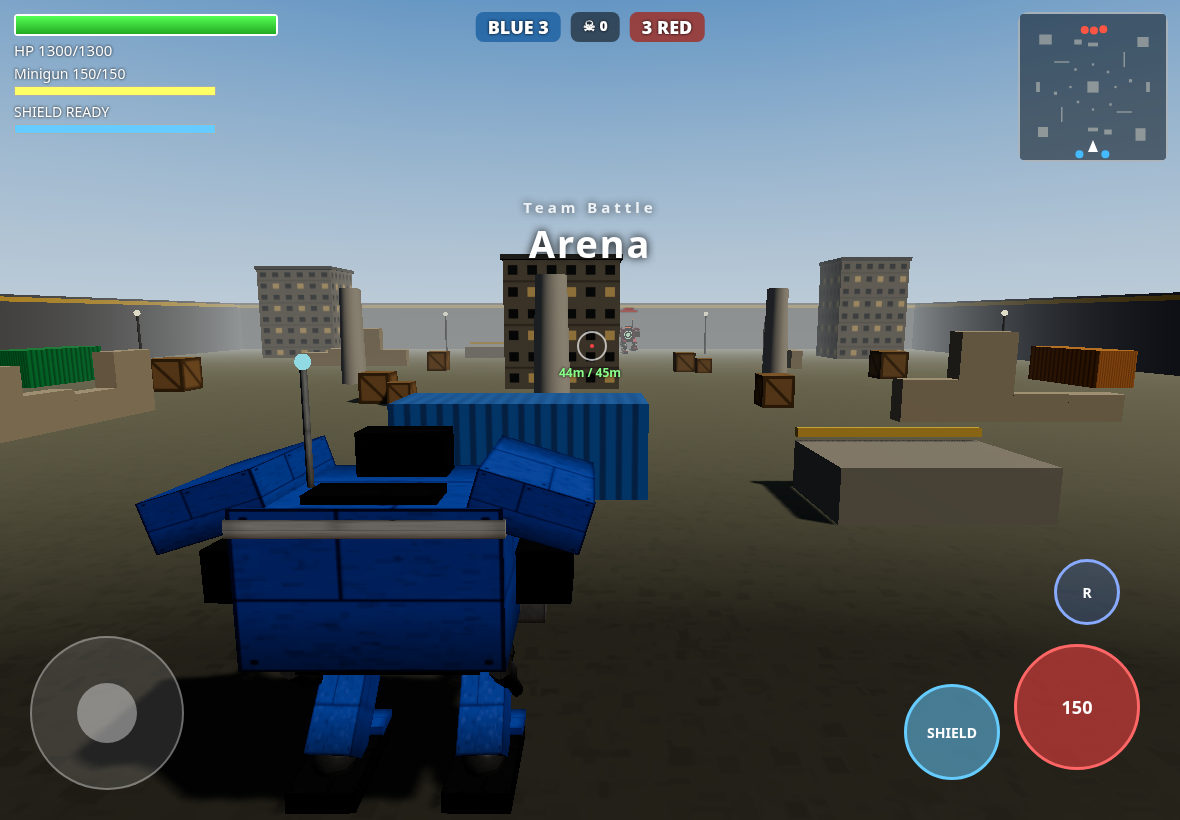
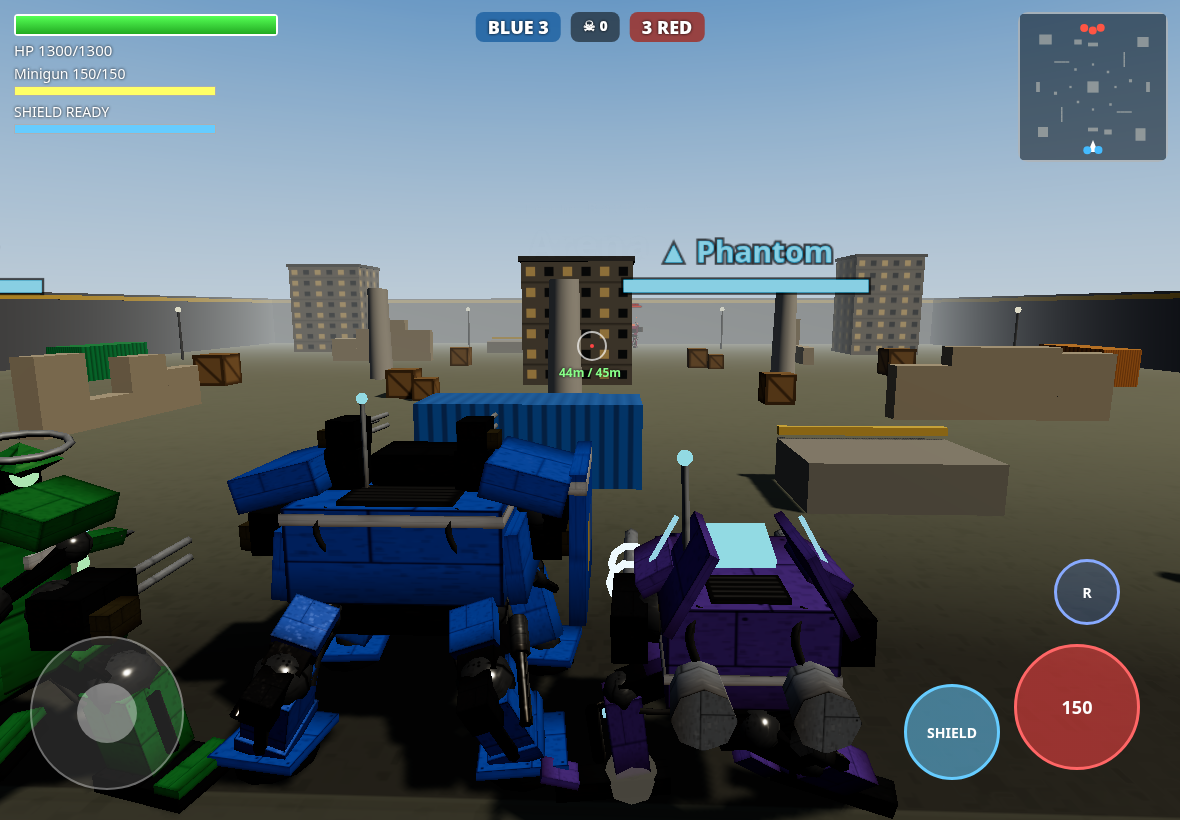
v11: structurally distinct mechs

diff --git a/game.js b/game.js
@@ -250,68 +250,118 @@ const TM={p:{stripe:M(0xf0f0f0),visor:new THREE.MeshBasicMaterial({color:0x40e0f
 const shieldMat=new THREE.MeshBasicMaterial({color:0x60d8ff,transparent:true,opacity:.35,depthWrite:false,side:THREE.DoubleSide});
 const jetMat=new THREE.MeshBasicMaterial({color:0xffa030}),coreMat=new THREE.MeshBasicMaterial({color:0x60ff90}),coilMat=new THREE.MeshBasicMaterial({color:0x50c0ff});
 const thrG=new THREE.CylinderGeometry(.3,.38,1.2,8),coreG=new THREE.SphereGeometry(.32,8,6),ringG=new THREE.TorusGeometry(.6,.07,4,12),coilG=new THREE.TorusGeometry(.3,.06,4,10),shieldG=new THREE.CylinderGeometry(3,3,4,10,1,true,-0.75,1.5);
-// ---------- mech builder: team 'b'|'r', type key, weapon key ----------
+// ---------- mech builder v11: per-frame structure (legs/arms/hardpoints/detail). team 'b'|'r', type key, weapon key ----------
 const TMK={b:'p',r:'e'};
-function mech(team,type,wpn){const T=CFG.mechs[type];const col=team==='b'?T.color:T.enemyColor;const g=new THREE.Group(),m=M(col,{metal:.45,rough:.55}),dk=M(0x2a2a2c,{metal:.7,rough:.5}),tm=TM[TMK[team]];
- const lower=new THREE.Group();g.add(lower);const legs=[],jm=M(0x8a8d90,{metal:.9,rough:.3}),rod=M(0xd0d4d8,{metal:1,rough:.15});
- for(const s of[-1,1]){const hipJ=new THREE.Group();hipJ.rotation.order='ZXY';hipJ.position.set(s*0.85,LEG.hipY,0);hipJ.add(new THREE.Mesh(jointG,jm));
-  const th=new THREE.Mesh(boxG,dk);th.scale.set(.45,LEG.L1,.55);th.position.y=-LEG.L1/2;hipJ.add(th);
-  const thA=new THREE.Mesh(boxG,m);thA.scale.set(.55,LEG.L1*.6,.2);thA.position.set(0,-LEG.L1*.4,.33);hipJ.add(thA);
-  // hydraulic piston: cylinder on thigh, rod scaled with knee angle
-  const cyl=new THREE.Mesh(pistonG,jm);cyl.scale.set(1.6,.55,1.6);cyl.position.set(s*.32,-LEG.L1*.3,-.38);hipJ.add(cyl);
-  const prod=new THREE.Mesh(pistonG,rod);prod.position.set(s*.32,-LEG.L1*.75,-.38);hipJ.add(prod);
-  const knee=new THREE.Group();knee.position.y=-LEG.L1;knee.add(new THREE.Mesh(jointG,jm));hipJ.add(knee);
-  const sh=new THREE.Mesh(boxG,m);sh.scale.set(.55,LEG.L2,.65);sh.position.y=-LEG.L2/2;knee.add(sh);
-  const pis2=new THREE.Mesh(pistonG,rod);pis2.position.set(0,-LEG.L2/2,.4);knee.add(pis2);
-  const ank=new THREE.Group();ank.rotation.order='ZXY';ank.position.y=-LEG.L2;const aj=new THREE.Mesh(jointG,jm);aj.scale.setScalar(.8);ank.add(aj);knee.add(ank);
-  const ft=new THREE.Mesh(boxG,dk);ft.scale.set(.8,LEG.foot,1.4);ft.position.set(0,-LEG.foot/2-.1,.2);ank.add(ft);
-  const toe=new THREE.Mesh(boxG,m);toe.scale.set(.82,.12,.4);toe.position.set(0,-.05,.75);ank.add(toe);
-  lower.add(hipJ);legs.push({hip:hipJ,knee,ank,prod,pis2,thA,thV:0,thR:0,s,foot:new THREE.Vector3(),from:new THREE.Vector3(),to:new THREE.Vector3(),sw:-1,dur:.3});}
- const hip=new THREE.Mesh(boxG,dk);hip.scale.set(2,.5,1);hip.position.y=LEG.hipY;lower.add(hip);
- const top=new THREE.Group();top.position.y=2.6;g.add(top);
- const add=(par,geo,mt,sx,sy,sz,x,y,z)=>{const o=new THREE.Mesh(geo,mt);o.scale.set(sx,sy,sz);o.position.set(x,y,z);par.add(o);return o;};
- const tw={guardian:[2.7,1.7,1.9],strider:[1.9,1.3,1.5],mender:[2.2,1.5,1.6],phantom:[2.0,1.15,1.8]}[type];
- add(top,boxG,m,tw[0],tw[1],tw[2],0,.8,0);
- add(top,boxG,dk,tw[0]*.7,.9,.25,0,.75,tw[2]/2+.05);
- add(top,boxG,tm.stripe,tw[0]+.05,.18,tw[2]+.05,0,.8+tw[1]/2-.2,0);
- add(top,boxG,dk,1.05,.55,.45,0,.8+tw[1]/2+.25,.55);add(top,boxG,tm.visor,.85,.18,.05,0,.8+tw[1]/2+.3,.79);
- // emissive running lights + vents
- const lm=team==='b'?LIGHT_B:LIGHT_R;for(const s of[-1,1])add(top,boxG,lm,.12,.12,.06,s*tw[0]*.36,.8+tw[1]*.25,tw[2]/2+.2);
- const vent=add(top,boxG,dk,tw[0]*.5,.15,.5,0,.8+tw[1]/2+.02,-tw[2]*.3);
- // shoulder pads on lag pivots (secondary motion)
- const pads=[];const pad=type==='guardian'?[1.2,.55,1.8]:[.8,.35,1.3];for(const s of[-1,1]){const pv=new THREE.Group();pv.position.set(s*(tw[0]/2+.1),1.45,0);top.add(pv);const sp=add(pv,boxG,m,...pad,s*.15,.15,0);sp.rotation.z=s*-.3;pads.push(pv);}
- const antP=new THREE.Group();antP.position.set(.7,1.75,-.5);top.add(antP);add(antP,antG,MS.metal,1,1,1,0,.65,0);add(antP,jointG,tm.visor,.25,.25,.25,0,1.3,0);
- let shield=null,jets=[];
- if(type==='guardian'){shield=add(top,shieldG,shieldMat,1,1,1,0,.8,0);shield.visible=false;add(top,boxG,MS.metal,.4,1.2,.4,-tw[0]/2-.1,.4,.6);}
- if(type==='strider'){for(const s of[-1,1]){add(top,thrG,MS.metal,1,1,1,s*.55,.7,-1.05);const j=add(top,flashG,jetMat,1.2,1.4,1.2,s*.55,-.3,-1.05);j.rotation.x=Math.PI;j.visible=false;jets.push(j);}}
- if(type==='phantom'){for(const s of[-1,1]){const f=add(top,boxG,m,.12,.9,1.2,s*.7,1.5,-.6);f.rotation.z=s*.5;add(top,thrG,MS.metal,.8,.8,.8,s*.6,.5,-1.0);const j=add(top,flashG,jetMat,1,1.6,1,s*.6,.5,-1.6);j.rotation.x=-Math.PI/2;j.visible=false;jets.push(j);}}
- if(type==='mender'){add(top,coreG,coreMat,1,1,1,0,.75,.95);add(top,ringG,coreMat,1,1,1,0,.75,.95);}
- const guns=[],flash=[],spinners=[],kickers=[];const mz={minigun:2.0,railgun:3.0,hornet:.9,shotgun:1.7}[wpn];
+const V3=(x,y,z)=>new THREE.Vector3(x,y,z);
+const cableG=new THREE.TubeGeometry(new THREE.CatmullRomCurve3([V3(0,0,0),V3(.12,-.3,-.12),V3(.05,-.65,-.1),V3(0,-.85,0)]),8,.045,4);
+const ventGT=tex(64,32,(g,w,h)=>{g.fillStyle='#222';g.fillRect(0,0,w,h);g.fillStyle='#555';for(let y=3;y<h;y+=6)g.fillRect(3,y,w-6,2);});
+const ventMat=new THREE.MeshStandardMaterial({map:ventGT,metalness:.7,roughness:.5});
+const cableMat=new THREE.MeshStandardMaterial({color:0x1a1a1a,roughness:.6,metalness:.2});
+const decalMats={};function decalMat(team,type){const k=team+type;if(decalMats[k])return decalMats[k];
+ const t=tex(128,64,(g,w,h)=>{g.clearRect(0,0,w,h);g.save();g.beginPath();g.rect(0,0,52,h);g.clip();for(let i=-4;i<10;i++){g.fillStyle=i%2?'#111':'#f0c020';g.beginPath();g.moveTo(i*14,0);g.lineTo(i*14+14,0);g.lineTo(i*14-18,h);g.lineTo(i*14-32,h);g.fill();}g.restore();
+  g.fillStyle=team==='b'?'#e8f4ff':'#ffe0d8';g.font='bold 40px sans-serif';g.textAlign='center';g.textBaseline='middle';g.fillText({guardian:'G-01',strider:'S-27',mender:'M-09',phantom:'P-X'}[type],90,34);});
+ return decalMats[k]=new THREE.MeshStandardMaterial({map:t,transparent:true,roughness:.6,metalness:.2,polygonOffset:true,polygonOffsetFactor:-2});}
+const planeG=new THREE.PlaneGeometry(1,1),droneG=new THREE.OctahedronGeometry(.32,0),rotorG=new THREE.TorusGeometry(.38,.04,4,12),dishG=new THREE.CylinderGeometry(.45,.1,.18,10),clawG=new THREE.ConeGeometry(.12,.55,4);
+// leg specs: x/z hip offset, hx/hz foot home offset (lower-local), l1/l2 bone lengths, rev = reverse (digitigrade) knee, grp = gait group (legs in a group step together), w = thickness
+const FRAMES={
+ guardian:{legs:[{x:-1.15,z:.95,hx:-1.75,hz:1.35,grp:0},{x:1.15,z:-.95,hx:1.75,hz:-1.35,grp:0,rev:1},{x:1.15,z:.95,hx:1.75,hz:1.35,grp:1},{x:-1.15,z:-.95,hx:-1.75,hz:-1.35,grp:1,rev:1}].map(l=>({...l,l1:1.05,l2:1.3,w:1.15})),
+  tw:[3.0,1.35,2.5],hips:[2.5,.6,2.2]},
+ strider:{legs:[-1,1].map((s,i)=>({x:s*.8,z:0,hx:s*.95,hz:.1,grp:i,l1:1.0,l2:1.55,rev:1,w:.8})),tw:[1.8,1.2,1.7],hips:[1.7,.45,.9]},
+ mender:{legs:[-1,1].map((s,i)=>({x:s*.95,z:0,hx:s*1.05,hz:.15,grp:i,l1:1.2,l2:1.2,w:1.2})),tw:[2.0,1.9,1.7],hips:[2.1,.55,1.1]},
+ phantom:{legs:[-1,1].map((s,i)=>({x:s*.7,z:0,hx:s*.8,hz:.1,grp:i,l1:1.28,l2:1.22,w:.7})),tw:[1.7,1.05,2.1],hips:[1.5,.4,.8]}};
+function mech(team,type,wpn){const T=CFG.mechs[type],F=FRAMES[type];const col=team==='b'?T.color:T.enemyColor;const hi=typeof settings==='undefined'||settings.gfx!=='low';
+ const g=new THREE.Group(),m=M(col,{metal:.45,rough:.55}),dk=M(0x2a2a2c,{metal:.7,rough:.5}),tm=TM[TMK[team]],lm=team==='b'?LIGHT_B:LIGHT_R;
+ const add=(par,geo,mt,sx,sy,sz,x,y,z,rx=0,ry=0,rz=0)=>{const o=new THREE.Mesh(geo,mt);o.scale.set(sx,sy,sz);o.position.set(x,y,z);o.rotation.set(rx,ry,rz);par.add(o);return o;};
+ const grp=(par,x,y,z)=>{const o=new THREE.Group();o.position.set(x,y,z);par.add(o);return o;};
+ const lower=new THREE.Group();g.add(lower);const legs=[],jm=M(0x8a8d90,{metal:.9,rough:.3}),rod=M(0xd0d4d8,{metal:1,rough:.15});const jets=[];
+ // ---- legs ----
+ for(const d of F.legs){const s=Math.sign(d.x),w=d.w,rv=d.rev?-1:1;const hipJ=new THREE.Group();hipJ.rotation.order='ZXY';hipJ.position.set(d.x,LEG.hipY,d.z);add(hipJ,jointG,jm,w,w,w,0,0,0);
+  add(hipJ,boxG,dk,.45*w,d.l1,.55*w,0,-d.l1/2,0);const thA=add(hipJ,boxG,m,.55*w,d.l1*.6,.2,0,-d.l1*.4,.33*rv);
+  add(hipJ,pistonG,jm,1.6,.55,1.6,s*.32*w,-d.l1*.3,-.38*rv);const prod=add(hipJ,pistonG,rod,1,1,1,s*.32*w,-d.l1*.75,-.38*rv);
+  if(hi)add(hipJ,cableG,cableMat,1,d.l1,1,-s*.3*w,-.05,-.2*rv);
+  const knee=grp(hipJ,0,-d.l1,0);add(knee,jointG,jm,w,w,w,0,0,0);
+  add(knee,boxG,m,.55*w,d.l2,.65*w,0,-d.l2/2,0);const pis2=add(knee,pistonG,rod,1,1,1,0,-d.l2/2,.4*rv);
+  if(d.rev){add(knee,boxG,dk,.35*w,.5,.5,0,.1,-.35);add(knee,boxG,m,.62*w,.25,.75*w,0,-d.l2*.8,0);}// reverse-knee spur + calf band
+  if(hi)add(knee,boxG,lm,.08,.08,.04,0,-d.l2*.25,.34*w*rv+.02*rv);
+  const ank=new THREE.Group();ank.rotation.order='ZXY';ank.position.y=-d.l2;add(ank,jointG,jm,.8*w,.8*w,.8*w,0,0,0);knee.add(ank);
+  if(type==='strider'){for(const a of[-.45,0,.45])add(ank,clawG,dk,1,1,1,Math.sin(a)*.35,-.25,.35+Math.cos(a)*.15,Math.PI/2,0,0);add(ank,clawG,dk,.8,.8,.8,0,-.25,-.45,-Math.PI/2,0,0);add(ank,boxG,m,.5,.2,.6,0,-.15,.05);
+   const j=add(knee,flashG,jetMat,.7,1,.7,0,-d.l2*.55,-.45);j.rotation.x=Math.PI;j.visible=false;jets.push(j);add(knee,thrG,MS.metal,.5,.5,.5,0,-d.l2*.4,-.45);}
+  else if(type==='guardian'){add(ank,cylG,dk,.55,.3,.55,0,-.22,0);add(ank,boxG,m,1.2,.12,1.2,0,-.05,0);}// elephant pad foot
+  else if(type==='phantom'){add(ank,boxG,dk,.35,LEG.foot,1.5,0,-LEG.foot/2-.1,.25);add(ank,boxG,m,.38,.1,.5,0,-.05,.95,-.3,0,0);}
+  else{add(ank,boxG,dk,.9,LEG.foot,1.4,0,-LEG.foot/2-.1,.2);add(ank,boxG,m,.92,.12,.4,0,-.05,.75);}
+  lower.add(hipJ);legs.push({hip:hipJ,knee,ank,prod,pis2,thA,thV:0,thR:0,s,hx:d.hx,hz:d.hz,l1:d.l1,l2:d.l2,rev:!!d.rev,grp:d.grp,foot:new THREE.Vector3(),from:new THREE.Vector3(),to:new THREE.Vector3(),sw:-1,dur:.3});}
+ const hp=F.hips;add(lower,boxG,dk,hp[0],hp[1],hp[2],0,LEG.hipY,0);if(hi)add(lower,boxG,ventMat,hp[0]*.5,.05,hp[2]*.5,0,LEG.hipY+hp[1]/2+.01,0);
+ // ---- torso ----
+ const top=new THREE.Group();top.position.y=2.6;g.add(top);const tw=F.tw,cy=.8,tY=cy+tw[1]/2;
+ const pads=[],arms=[],drones=[];let shield=null,vent,antP,coreM=null;
+ if(type==='guardian'){// heavy hull: slab torso, sloped glacis, side skirts, low turret head
+  add(top,boxG,m,tw[0],tw[1],tw[2],0,cy,0);add(top,boxG,m,tw[0]*.9,.9,.7,0,cy+.15,tw[2]/2+.2,-.6,0,0);add(top,boxG,dk,tw[0]*.7,.5,.3,0,cy-.45,tw[2]/2+.1);
+  add(top,boxG,tm.stripe,tw[0]+.05,.16,tw[2]+.05,0,tY-.15,0);for(const s of[-1,1])add(top,boxG,m,.25,1.0,tw[2]*.9,s*(tw[0]/2+.12),cy-.2,0,0,0,s*.12);
+  add(top,boxG,dk,1.3,.5,1.0,0,tY+.25,.35);add(top,boxG,tm.visor,1.1,.14,.05,0,tY+.3,.86);vent=add(top,boxG,ventMat,1.6,.12,.8,0,tY+.01,-.7);
+  for(const s of[-1,1]){const pv=grp(top,s*(tw[0]/2+.1),tY+.05,0);add(pv,boxG,m,1.2,.5,1.9,s*.15,.15,0,0,0,s*-.25);pads.push(pv);}
+  // shield arm (left): shoulder joint + strut + heavy plate on a lag pivot
+  const sa=grp(top,-tw[0]/2-.35,cy+.2,.2);add(sa,jointG,jm,1.3,1.3,1.3,0,0,0);add(sa,boxG,dk,.35,.35,1.2,-.25,0,.2);
+  const sp=add(sa,boxG,m,.25,2.3,2.4,-.62,-.35,.45);add(sa,boxG,tm.stripe,.27,.2,2.42,-.62,.6,.45);if(hi){const dc=add(sa,planeG,decalMat(team,type),1.6,.8,1,-.76,-.45,.45,0,-Math.PI/2,0);}
+  arms.push({pv:sa,kind:'shield'});
+  shield=add(top,shieldG,shieldMat,1.15,1,1.15,0,.8,0);shield.visible=false;}
+ else if(type==='strider'){// hunched predator cockpit, forward nose, dorsal jet pack
+  add(top,boxG,m,tw[0],tw[1],tw[2],0,cy,0);add(top,boxG,m,1.3,.7,1.1,0,cy-.05,tw[2]/2+.45,.25,0,0);add(top,boxG,tm.visor,1.0,.16,.05,0,cy+.12,tw[2]/2+1.0,.25,0,0);
+  add(top,boxG,tm.stripe,.3,tw[1]+.05,tw[2]+.05,0,cy,0);add(top,boxG,dk,1.2,.6,.8,0,cy+.1,-tw[2]/2-.3);vent=add(top,boxG,ventMat,.8,.1,.6,0,cy+.41,-tw[2]/2-.3);
+  for(const s of[-1,1]){add(top,thrG,MS.metal,1,1,1,s*.55,cy-.1,-tw[2]/2-.55);const j=add(top,flashG,jetMat,1.2,1.4,1.2,s*.55,cy-1.1,-tw[2]/2-.55,Math.PI,0,0);j.visible=false;jets.unshift(j);
+   const pv=grp(top,s*(tw[0]/2+.05),tY,0);add(pv,boxG,m,.6,.3,1.1,s*.1,.1,0,0,0,s*-.4);pads.push(pv);}}
+ else if(type==='mender'){// tall support frame: rounded core, repair core + ring, sensor mast, two manipulator arms, repair drones
+  add(top,cylG,m,tw[0]/2,tw[1],tw[0]/2,0,cy+.1,0);add(top,boxG,m,tw[0]*.85,.6,tw[2],0,cy-.6,0);add(top,boxG,tm.stripe,tw[0]+.02,.15,.4,0,cy+.55,0);
+  coreM=add(top,coreG,coreMat,1.1,1.1,1.1,0,cy+.1,tw[2]/2+.1);add(top,ringG,coreMat,1.1,1.1,1.1,0,cy+.1,tw[2]/2+.1);
+  add(top,boxG,dk,.9,.5,.5,0,tY+.4,.45);add(top,boxG,tm.visor,.7,.14,.05,0,tY+.45,.71);vent=add(top,boxG,ventMat,1.2,.1,.6,0,tY+.12,-.55);
+  for(const s of[-1,1]){const pv=grp(top,s*(tw[0]/2+.05),tY+.05,0);add(pv,boxG,m,.7,.35,1.1,s*.1,.1,0,0,0,s*-.3);pads.push(pv);
+   // manipulator arm: shoulder -> upper -> elbow -> forearm -> tool (spinning welder)
+   const sh=grp(top,s*.75,cy+.2,-.55);add(sh,jointG,jm,.8,.8,.8,0,0,0);add(sh,boxG,dk,.22,.22,1.0,0,0,.5);const el=grp(sh,0,0,1.0);add(el,jointG,jm,.6,.6,.6,0,0,0);add(el,boxG,m,.2,.2,.9,0,0,.45);
+   const tool=grp(el,0,0,.95);add(tool,clawG,MS.metal,1,1,1,0,0,.1,Math.PI/2,0,0);const tl=add(tool,boxG,coreMat,.12,.12,.12,0,0,.42);arms.push({sh,el,tool,tl,s,kind:'tool'});}
+  for(let i=0;i<2;i++){const dr=grp(g,0,4.5,0);add(dr,droneG,m,1,.6,1,0,0,0);add(dr,rotorG,MS.metal,1,1,1,0,.15,0,Math.PI/2,0,0);add(dr,coreG,coreMat,.35,.35,.35,0,-.15,0);drones.push({g:dr,ph:i*Math.PI,p:new THREE.Vector3()});}}
+ else{// phantom: lean wedge, canopy, swept fins, twin dash thrusters
+  add(top,boxG,m,tw[0],tw[1],tw[2],0,cy,0);add(top,boxG,m,tw[0]*.7,.6,1.1,0,cy+.1,tw[2]/2+.4,0,0,0).rotation.x=.35;
+  add(top,boxG,tm.visor,.9,.35,.7,0,tY+.05,.35,-.3,0,0);add(top,boxG,tm.stripe,tw[0]+.04,.1,tw[2]+.04,0,cy-.2,0);vent=add(top,boxG,ventMat,.8,.08,.6,0,tY+.01,-.6);
+  for(const s of[-1,1]){add(top,boxG,m,.1,.9,1.3,s*.65,1.6,-.7,0,0,s*.5);add(top,boxG,lm,.05,.6,.06,s*.82,1.7,-.1,0,0,s*.5);
+   add(top,thrG,MS.metal,.8,.8,.8,s*.55,.55,-1.15,Math.PI/2,0,0);const j=add(top,flashG,jetMat,1,1.6,1,s*.55,.55,-1.8,-Math.PI/2,0,0);j.visible=false;jets.push(j);
+   const pv=grp(top,s*(tw[0]/2),tY,0);add(pv,boxG,m,.45,.2,1.0,s*.05,.05,0,0,0,s*-.5);pads.push(pv);}}
+ // shared detail: running lights, cables, side decal
+ for(const s of[-1,1])add(top,boxG,lm,.12,.12,.06,s*tw[0]*.36,cy+tw[1]*.25,tw[2]/2+.05+(type==='strider'?.0:0));
+ if(hi){for(const s of[-1,1])add(top,cableG,cableMat,1,.8,1,s*tw[0]*.3,tY,-tw[2]/2+.1,0,0,0);if(type!=='guardian')add(top,planeG,decalMat(team,type),.9,.45,1,tw[0]/2+.01,cy,-.1,0,Math.PI/2,0);
+  add(top,boxG,dk,tw[0]*.6,.08,.08,0,cy-tw[1]/2+.1,tw[2]/2+.02);}
+ antP=new THREE.Group();antP.position.set(type==='mender'?.55:.6,tY+(type==='mender'?.5:.1),-.5);top.add(antP);add(antP,antG,MS.metal,1,type==='mender'?1.8:1,1,0,type==='mender'?1.1:.65,0);
+ add(antP,jointG,tm.visor,.25,.25,.25,0,type==='mender'?2.25:1.3,0);if(type==='mender')add(antP,dishG,MS.metal,1,1,1,0,1.5,0,.5,0,0);
+ // ---- weapon hardpoints: [x,y,z,scale,kind] ----
+ const HP={guardian:[[-1,0,0,1.15,'arm'],[1,0,0,1.15,'arm'],[-1,1,0,.7,'pod'],[1,1,0,.7,'pod']],strider:[[-1,0,0,1,'arm'],[1,0,0,1,'arm']],mender:[[-1,0,0,1,'arm'],[1,0,0,1,'arm']],phantom:[[-1,0,0,.9,'arm'],[1,0,0,.9,'arm'],]}[type];
+ const guns=[],flash=[],spinners=[],kickers=[];const mz0={minigun:2.0,railgun:3.0,hornet:.9,shotgun:1.7}[wpn];
  const coil=wpn==='railgun'?new THREE.MeshStandardMaterial({color:0x2a5070,emissive:0x50c0ff,emissiveIntensity:.2,metalness:.5,roughness:.3}):null;
- for(const s of[-1,1]){const pv=new THREE.Group();pv.position.set(s*(tw[0]/2+.35),.7,0);const kb=new THREE.Group();pv.add(kb);kickers.push(kb);
+ for(const [s,pod,,sc,kind] of HP){let x,y,z;
+  if(kind==='pod'){x=s*.95;y=tY+.85;z=-.25;const br=add(top,boxG,dk,.5,.6,.5,x,tY+.35,z);}else{x=s*(tw[0]/2+(type==='guardian'?.75:.35));y=type==='strider'?.55:.7;z=type==='guardian'?.25:0;
+   if(type==='guardian'&&s<0)x=-tw[0]/2-.35;// left gun rides under the shield arm
+   add(top,jointG,jm,.9,.9,.9,s*(tw[0]/2+.05),y+.05,z);if(type!=='guardian'||s>0)add(top,boxG,dk,.6,.3,.3,s*(tw[0]/2+.15),y+.05,z);}
+  const pv=new THREE.Group();pv.position.set(x,y,z);const kb=new THREE.Group();kb.scale.setScalar(sc);pv.add(kb);kickers.push(kb);
   if(wpn==='minigun'){add(kb,boxG,dk,.6,.6,.9,0,0,.1);const sp=new THREE.Group();sp.position.z=1.2;kb.add(sp);spinners.push(sp);
-   for(let k=0;k<3;k++){const a=k*2.09,b=add(sp,barrelG,MS.metal,.6,1.1,.6,Math.cos(a)*.15,Math.sin(a)*.15,0);b.rotation.x=Math.PI/2;}}
+   for(let k=0;k<3;k++){const a=k*2.09,b=add(sp,barrelG,MS.metal,.6,1.1,.6,Math.cos(a)*.15,Math.sin(a)*.15,0);b.rotation.x=Math.PI/2;}if(hi)add(kb,boxG,M(0x5a5030),.25,.35,.5,s*.4,-.1,0);}
   else if(wpn==='railgun'){add(kb,boxG,dk,.45,.6,1.3,0,0,.1);const b=add(kb,barrelG,MS.metal,1.3,2,1.3,0,0,1.7);b.rotation.x=Math.PI/2;for(const z of[1.1,1.8])add(kb,coilG,coil,1,1,1,0,0,z);}
-  else if(wpn==='shotgun'){add(kb,boxG,dk,.6,.55,1.1,0,0,.1);for(const x of[-.14,.14]){const b=add(kb,barrelG,MS.metal,1.5,1.2,1.5,x,0,1.1);b.rotation.x=Math.PI/2;}add(kb,boxG,MS.metal,.5,.12,.5,0,-.3,.9);}
+  else if(wpn==='shotgun'){add(kb,boxG,dk,.6,.55,1.1,0,0,.1);for(const xx of[-.14,.14]){const b=add(kb,barrelG,MS.metal,1.5,1.2,1.5,xx,0,1.1);b.rotation.x=Math.PI/2;}add(kb,boxG,MS.metal,.5,.12,.5,0,-.3,.9);}
   else{add(kb,boxG,M(0x665544),.85,.85,1.1,0,.1,.1);for(let r=0;r<2;r++)for(let c=0;c<2;c++){const tb=add(kb,tubeG,MS.dark,1,1,1,-.2+c*.4,-.1+r*.4,.68);tb.rotation.x=Math.PI/2;}}
-  const fl=add(pv,flashG,MS.flash,1,1,1,0,0,mz+.4);fl.rotation.x=-Math.PI/2;fl.visible=false;flash.push(fl);top.add(pv);guns.push(pv);}
- g.traverse(o=>{if(o.isMesh&&o.material!==shieldMat&&o.material!==jetMat&&o.material!==MS.flash)o.castShadow=true;});
- S.add(g);return{g,lower,legs,top,guns,flash,spinners,kickers,shield,jets,pads,antP,vent,coil,mz,mats:[m,dk],flashT:0,smokeT:0,legYaw:0,tYaw:0,tYawV:0,gp:0};}
+  const fl=add(pv,flashG,MS.flash,sc,sc,sc,0,0,(mz0+.4)*sc);fl.rotation.x=-Math.PI/2;fl.visible=false;flash.push(fl);pv.userData.mz=mz0*sc;top.add(pv);guns.push(pv);}
+ g.traverse(o=>{if(o.isMesh&&o.material!==shieldMat&&o.material!==jetMat&&o.material!==MS.flash&&o.material!==cableMat&&!(o.material.transparent))o.castShadow=hi||o.geometry===boxG;});
+ S.add(g);return{g,lower,legs,top,guns,flash,spinners,kickers,shield,jets,pads,arms,drones,coreM,antP,vent,coil,mz:mz0,mats:[m,dk],flashT:0,smokeT:0,legYaw:0,tYaw:0,tYawV:0,gp:0};}
 const LIGHT_B=new THREE.MeshBasicMaterial({color:0x60d0ff}),LIGHT_R=new THREE.MeshBasicMaterial({color:0xff5040});
 const wrap=a=>Math.atan2(Math.sin(a),Math.cos(a));
 function turn(cur,tgt,rate,dt){const d=wrap(tgt-cur);return cur+Math.sign(d)*Math.min(Math.abs(d),rate*dt);}
 // ---------- locomotion: inertia, world-planted feet with 2-bone IK, weight shift, secondary motion ----------
 const _v=new THREE.Vector3(),_w=new THREE.Vector3(),_h=new THREE.Vector3();
 const L1=LEG.L1,L2=LEG.L2;
-function homeOf(u,L,out){const p=u.g.position,ly=u.legYaw;return out.set(p.x+Math.cos(ly)*L.s*0.9+Math.sin(ly)*0.15,p.y,p.z-Math.sin(ly)*L.s*0.9+Math.cos(ly)*0.15);}
+function homeOf(u,L,out){const p=u.g.position,ly=u.legYaw;const c=Math.cos(ly),n=Math.sin(ly);return out.set(p.x+c*L.hx+n*L.hz,p.y,p.z-n*L.hx+c*L.hz);}
 function initFeet(u){for(const L of u.legs){homeOf(u,L,L.foot);L.sw=-1;}}
 function ik(u,L){// ankle target in lower-local space -> hip roll/pitch + knee bend, ankle keeps foot flat
  _v.set(L.foot.x,L.foot.y+LEG.foot+0.1,L.foot.z);u.lower.worldToLocal(_v);_v.sub(L.hip.position);
- const r=Math.atan2(_v.x,-_v.y),a=Math.hypot(_v.x,_v.y),d=Math.min(L1+L2-0.002,Math.max(0.4,Math.hypot(a,_v.z)));
+ const L1=L.l1,L2=L.l2,rv=L.rev?-1:1;const r=Math.atan2(_v.x,-_v.y),a=Math.hypot(_v.x,_v.y),d=Math.min(L1+L2-0.002,Math.max(0.4,Math.hypot(a,_v.z)));
  const th=Math.atan2(-_v.z,a),be=Math.acos(Math.min(1,(L1*L1+d*d-L2*L2)/(2*L1*d))),k=Math.PI-Math.acos(Math.max(-1,Math.min(1,(L1*L1+L2*L2-d*d)/(2*L1*L2))));
- L.hip.rotation.set(th-be,0,r);L.knee.rotation.x=k;L.ank.rotation.set(-(th-be+k),0,-r);
- L.prod.scale.y=0.55+0.55*k;L.prod.position.y=-LEG.L1*0.55-L.prod.scale.y*0.25;
- const ak=-(th-be+k);L.pis2.scale.y=Math.max(.35,0.9+0.5*ak);}
+ const hx=th-be*rv,kk=k*rv;L.hip.rotation.set(hx,0,r);L.knee.rotation.x=kk;L.ank.rotation.set(-(hx+kk),0,-r);
+ L.prod.scale.y=0.55+0.55*k;L.prod.position.y=-L1*0.55-L.prod.scale.y*0.25;
+ const ak=-(hx+kk)*rv;L.pis2.scale.y=Math.max(.35,0.9+0.5*ak);}
 function legLag(u,L,dt){// thigh armor plate trails the hip swing (spring)
  const hx=L.hip.rotation.x,dv=(hx-(L.hx0===undefined?hx:L.hx0))/Math.max(dt,1e-3);L.hx0=hx;
  L.thV+=(-160*L.thR-10*L.thV-dv*0.9)*dt;L.thR+=L.thV*dt;L.thR=Math.max(-.5,Math.min(.5,L.thR));L.thA.rotation.x=L.thR;}
@@ -320,13 +370,13 @@ function animMech(u,dt){const G=CFG.gait,p=u.g.position,v=u.vel,sp=Math.hypot(v.
  // legs face movement (walk backwards if moving away from torso)
  if(sp>0.4){let my=Math.atan2(v.x,v.z);if(Math.abs(wrap(my-u.tYaw))>1.9)my+=Math.PI;u.legYaw=turn(u.legYaw,my,CFG.legTurn/(u.T.mass||1),dt);}
  const stride=Math.min(G.stride[1],G.stride[0]+sp*G.strideK),stepT=Math.min(G.stepMax,Math.max(G.stepMin,stride/Math.max(sp,0.01)))*(u.T.mass||1)**0.5;
- if(u.air){for(const L of u.legs){L.hip.rotation.set(-.5,0,L.s*.08);L.knee.rotation.x=1.1;L.ank.rotation.set(-.6,0,0);L.sw=-1;}u.wasAir=true;}
+ if(u.air){for(const L of u.legs){const rv=L.rev?-1:1;L.hip.rotation.set(-.5*rv,0,L.s*.08);L.knee.rotation.x=1.1*rv;L.ank.rotation.set(-.6*rv,0,0);L.sw=-1;}u.wasAir=true;}
  else{if(u.wasAir){u.wasAir=false;initFeet(u);}
-  let sw=u.legs.find(L=>L.sw>=0);
-  if(!sw){let best=null,bd=0;for(const L of u.legs){homeOf(u,L,_h).addScaledVector(v,stepT*0.5);const d=Math.hypot(L.foot.x-_h.x,L.foot.z-_h.z);
-    const need=sp>0.4?stride*0.5:G.settle;const pref=L===u.lastLeg?0.85:1;if(d>need&&d*pref>bd){bd=d*pref;best=L;}}
-   if(best){best.sw=0;best.from.copy(best.foot);best.dur=stepT;u.lastLeg=best;sw=best;}}
-  if(sw){sw.sw=Math.min(1,sw.sw+dt/sw.dur);homeOf(u,sw,sw.to).addScaledVector(v,(1-sw.sw)*sw.dur+stepT*0.5);
+  let sws=u.legs.filter(L=>L.sw>=0);
+  if(!sws.length){let best=null,bd=0;for(const L of u.legs){homeOf(u,L,_h).addScaledVector(v,stepT*0.5);const d=Math.hypot(L.foot.x-_h.x,L.foot.z-_h.z);
+    const need=sp>0.4?stride*0.5:G.settle;const pref=L.grp===u.lastGrp?0.85:1;if(d>need&&d*pref>bd){bd=d*pref;best=L;}}
+   if(best){for(const L of u.legs)if(L.grp===best.grp){L.sw=0;L.from.copy(L.foot);L.dur=stepT;sws.push(L);}u.lastGrp=best.grp;}}
+  for(const sw of sws){sw.sw=Math.min(1,sw.sw+dt/sw.dur);homeOf(u,sw,sw.to).addScaledVector(v,(1-sw.sw)*sw.dur+stepT*0.5);
    const e=sw.sw*sw.sw*(3-2*sw.sw);sw.foot.lerpVectors(sw.from,sw.to,e);sw.foot.y=p.y+Math.sin(Math.PI*sw.sw)*G.lift*Math.min(1,0.4+sp/6);
    if(sw.sw>=1){sw.sw=-1;sw.foot.y=p.y;u.dip=1;footstep(u,sw.foot);}}
   for(const L of u.legs)if(L.sw<0)L.foot.y=p.y;}
@@ -346,6 +396,12 @@ function animMech(u,dt){const G=CFG.gait,p=u.g.position,v=u.vel,sp=Math.hypot(v.
  const ca=Math.cos(u.tYaw),sa=Math.sin(u.tYaw),ax=u.acc.x*ca-u.acc.z*sa,az=u.acc.x*sa+u.acc.z*ca;
  u.jgV.x+=(-90*u.jg.x-7*u.jgV.x-ax*0.4-u.tYawV*1.5)*dt;u.jgV.z+=(-90*u.jg.z-7*u.jgV.z+az*0.4+u.dip*3)*dt;u.jg.x+=u.jgV.x*dt;u.jg.z+=u.jgV.z*dt;
  u.antP.rotation.set(u.jg.z*0.8,0,u.jg.x*0.8);for(const pd of u.pads)pd.rotation.set(u.jg.z*0.3,u.jg.x*0.25,0);
+ u.armT=(u.armT||0)+dt;for(const a of u.arms){if(a.kind==='shield'){a.pv.rotation.set(u.jg.z*0.5-u.shA*0.4,u.jg.x*0.4+u.shA*0.5,u.jg.x*0.2);continue;}
+  const w=u.armT*1.6+a.s;a.sh.rotation.set(-.35+Math.sin(w)*.25+u.jg.z*.6,a.s*(.35+Math.sin(w*.7)*.2)+u.jg.x*.5,0);a.el.rotation.set(.7+Math.sin(w*1.3)*.35,-a.s*.4,0);a.tool.rotation.z+=dt*8;
+  a.tl.visible=Math.sin(w*5)>0;}
+ for(const d of u.drones){const t=u.armT*1.3+d.ph,dg=d.g;d.p.set(Math.cos(t)*2.4,4.6+Math.sin(t*2)*.35,Math.sin(t)*2.4);dg.position.x+=(d.p.x-dg.position.x)*Math.min(1,dt*4);dg.position.y+=(d.p.y-dg.position.y)*Math.min(1,dt*4);dg.position.z+=(d.p.z-dg.position.z)*Math.min(1,dt*4);
+  dg.rotation.set(-u.vel.z*.03,t*3,u.vel.x*.03);}
+ if(u.coreM)u.coreM.rotation.y+=dt*2;
  // weapons: barrel kick-back, spin, railgun charge glow, flash
  for(let i=0;i<u.kickers.length;i++){u.kick[i]=Math.max(0,u.kick[i]-dt*u.kick[i]*12-dt*.2);u.kickers[i].position.z=-u.kick[i];}
  for(const s of u.spinners)s.rotation.z+=dt*35*(u.spin||0);
@@ -363,11 +419,11 @@ function footstep(u,f){if(FX.length<CFG.fx.maxFx*.8)fx(_w.set(f.x,f.y+.2,f.z),.9
 function deathAnim(u,dt){const t=u.dying+=dt,ease=x=>x<=0?0:x>=1?1:1-Math.pow(1-x,3);
  // staggered collapse: hit-side knee buckles first, the other follows, torso pitches over and bounces on the ground
  const s=u.dieSide,a=ease((t-0.05)/0.5),b=ease((t-0.3)/0.55),f=Math.max(a,b)*0.5+Math.min(a,b)*0.5;
- for(const L of u.legs){const q=L.s===s?a:b;L.hip.rotation.set(-1.0*q,0,L.s*(.12+.25*q));L.knee.rotation.x=0.3+1.8*q;L.ank.rotation.set(-0.9*q,0,0);L.prod.scale.y=0.55+0.55*(0.3+1.8*q);}
+ for(const L of u.legs){const q=L.s===s?a:b;L.hip.rotation.set(-1.0*q*(L.rev?-.5:1),0,L.s*(.12+.25*q));const rv=L.rev?-1:1;L.knee.rotation.x=(0.3+1.8*q)*rv;L.ank.rotation.set(-0.9*q*rv,0,0);L.prod.scale.y=0.55+0.55*(0.3+1.8*q);}
  const fall=ease((t-0.35)/0.6),bounce=t>0.95&&t<1.4?Math.sin((t-0.95)/0.45*Math.PI)*0.12*(1.4-t):0;
  u.lower.position.y=-1.15*f;u.lower.rotation.z=s*0.18*f;u.top.position.y=2.6-1.3*f-0.35*fall+bounce;
  u.top.rotation.set(0.15*a+0.45*fall,u.tYaw+s*0.25*fall,s*(0.15*a+0.35*fall),'YXZ');
- for(const g of u.guns)g.rotation.x=0.7*fall;u.antP.rotation.set(-0.8*fall,0,s*0.6*fall);
+ for(const g of u.guns)g.rotation.x=0.7*fall;for(const d of u.drones)d.g.position.y=Math.max(.4,d.g.position.y-dt*6);u.antP.rotation.set(-0.8*fall,0,s*0.6*fall);
  if(t<0.95){if(Math.random()<.45){u.top.getWorldPosition(_w);sparks(_w.addScaledVector(rnd3(),1.4));}if(!u.pop&&t>0.25){u.pop=1;u.top.getWorldPosition(_w);boom(_w.clone().addScaledVector(rnd3(),1),1,0xff8030);}}
  else if(!u.wreck){u.wreck=true;u.top.getWorldPosition(_w);explode(_w.clone(),1.4);for(const m of u.mats){m.color.multiplyScalar(0.28);m.metalness=0.3;}
   if(u.plate)u.plate.visible=false;if(u.shield)u.shield.visible=false;u.jets.forEach(j=>j.visible=false);if(u===P)shake(0.5);}
@@ -385,7 +441,7 @@ function makeUnit(team,type,wpn,prof){const me=team==='b'&&!prof,T=me?upMech(typ
  if(pr&&team==='r'){const k=1+CFG.econ.enemyScale*progress();pr.hpMul*=k;pr.dmgMul*=k;pr.scale=k;}const u=mech(team,type,wpn);
  Object.assign(u,{team,type,wpn,T,W,prof:pr,alive:true,hp:T.hp*(pr?pr.hpMul:1),speed:T.speed*(pr?pr.speedMul:1),ammo:W.mag,reload:0,fireCd:0,spin:0,
   shieldOn:false,shA:0,shieldHP:T.shield?T.shield.hp:0,shieldT:0,abCd:0,vy:0,air:false,lastHit:-99,lockT:0,lockTgt:null,cd:1+Math.random()*2,burst:0,think:0,goal:null,
-  vel:new THREE.Vector3(),acc:new THREE.Vector3(),jg:new THREE.Vector3(),jgV:new THREE.Vector3(),fl:new THREE.Vector3(),kick:[0,0],jolt:0,sway:0,dip:0,crouch:0,jumpWind:0,
+  vel:new THREE.Vector3(),acc:new THREE.Vector3(),jg:new THREE.Vector3(),jgV:new THREE.Vector3(),fl:new THREE.Vector3(),kick:u.guns.map(()=>0),jolt:0,sway:0,dip:0,crouch:0,jumpWind:0,
   stagT:0,dashT:0,ventT:0,kills:0,seeT:0,strafeD:1,strafeT:0,scanT:0,tgt:null,dieSide:Math.random()<.5?-1:1,yaw:0,pitch:.05});u.max=u.hp;return u;}
 // nameplates: team-colored name + hp bar (canvas sprite)
 function makePlate(u,ally){const c=document.createElement('canvas');c.width=256;c.height=64;const t=new THREE.CanvasTexture(c);t.colorSpace=THREE.SRGBColorSpace;
@@ -448,9 +504,9 @@ let AC=null;const unlockAudio=()=>{if(!AC)try{AC=new (window.AudioContext||windo
 addEventListener('touchstart',unlockAudio,{passive:true});addEventListener('mousedown',unlockAudio);
 function sfx(k){if(!AC||AC.state!=='running')return;const t=AC.currentTime,o=AC.createOscillator(),g=AC.createGain();o.type='sine';const big=k==='boom';
  o.frequency.setValueAtTime(big?90:70,t);o.frequency.exponentialRampToValueAtTime(big?30:38,t+(big?.6:.18));g.gain.setValueAtTime(big?.5:.22,t);g.gain.exponentialRampToValueAtTime(.001,t+(big?.7:.2));o.connect(g).connect(AC.destination);o.start(t);o.stop(t+(big?.75:.22));}
-function muzzle(u,i){u.flash[i].visible=true;u.flash[i].rotation.z=Math.random()*3;u.flashT=.05;const p=new THREE.Vector3();u.guns[i].updateMatrixWorld(true);return u.guns[i].localToWorld(p.set(0,0,u.mz));}
+function muzzle(u,i){u.flash[i].visible=true;u.flash[i].rotation.z=Math.random()*3;u.flashT=.05;const p=new THREE.Vector3();u.guns[i].updateMatrixWorld(true);return u.guns[i].localToWorld(p.set(0,0,u.guns[i].userData.mz||u.mz));}
 function fireWeapon(u,aimPt,homing){if(u===P)STATS.shots++;const W=u.W,pr=u.prof;u.fireCd=W.interval*(pr?pr.fireMul:1)/(W.spin?Math.max(.3,u.spin):1);u.ammo--;
- const gi=u.ammo%2,f=muzzle(u,gi);const d=aimPt.clone().sub(f).normalize();
+ const gi=((u.ammo%u.guns.length)+u.guns.length)%u.guns.length,f=muzzle(u,gi);const d=aimPt.clone().sub(f).normalize();
  const s=(W.pellets?0:W.spread)+(pr?pr.spread:0);d.x+=(Math.random()-.5)*s;d.y+=(Math.random()-.5)*s*.6;d.z+=(Math.random()-.5)*s;d.normalize();
  u.kick[gi]=Math.min(1,u.kick[gi]+W.kick);u.jolt=Math.min(.12,u.jolt+W.jolt);if(u.wpn==='railgun')u.ventT=.7;
  if(u===P){flashLight(f,u.wpn==='railgun'?4:1.5);shake(W.jolt*2);}
@@ -612,7 +668,7 @@ const camRay=new THREE.Raycaster(),cO=new THREE.Vector3(),cD=new THREE.Vector3()
 function cam(dt){if(!P)return;const K=CFG.cam,f=(P.alive||!SPEC)?P:SPEC,p=f.g.position;
  if(f===P)camYaw=P.yaw;else camYaw+=wrap(f.tYaw-camYaw)*Math.min(1,(dt||0)*3);
  const bx=-Math.sin(camYaw),bz=-Math.cos(camYaw),rx=-bz,rz=bx,pit=f===P?P.pitch:.05;
- cO.set(p.x,p.y+K.height,p.z);want.set(p.x+bx*K.dist-rx*K.side,p.y+K.height+pit*K.pitchLift,p.z+bz*K.dist-rz*K.side);
+ cO.set(p.x,p.y+K.height,p.z);const ck=P&&P.type==='guardian'?1.35:P&&P.type==='strider'?1.12:1;want.set(p.x+bx*K.dist*ck-rx*K.side*ck,p.y+K.height*(ck>1.2?1.12:1)+pit*K.pitchLift,p.z+bz*K.dist*ck-rz*K.side*ck);
  cD.copy(want).sub(cO);const L=cD.length();cD.normalize();camRay.set(cO,cD);camRay.far=L;const h=camRay.intersectObjects(obstMeshes,false)[0];
  if(h)want.copy(cO).addScaledVector(cD,Math.max(1.2,h.distance-0.4));
  if(dt){shakeA=Math.max(0,shakeA-shakeA*K.shakeDecay*dt-dt*.05);}const s=shakeA*shakeA*0.6;
@@ -650,7 +706,8 @@ function hud(){const W=P.W,T=P.T;hudN++;
 const menu=$('menu'),mc=$('mc');let menuStep='title';
 const statMax={hp:1300,speed:10};const bar=(l,v,t)=>`<div class="st"><span>${l}</span><div class="sb"><i style="width:${Math.max(4,v*100)}%"></i></div><em>${t}</em></div>`;
 function preview(){if(P)S.remove(P.g);P=makeUnit('b',loadout.mech,loadout.weapon,null);applyPaint(P,paintOf(loadout.mech));P.g.position.set(0,0,48);P.tYaw=P.legYaw=Math.PI;P.yaw=Math.PI;P.pitch=.05;initFeet(P);animMech(P,.016);}
-function menuTick(dt){menuA+=dt*.35;if(!P)return;const p=P.g.position;P.tYaw=Math.PI+Math.sin(menuA*.8)*.6;P.legYaw=Math.PI;P.spin=P.W.spin?1:0;animMech(P,dt);
+let LINEUP=null;
+function menuTick(dt){menuA+=dt*.35;if(LINEUP){for(const u of LINEUP){u.spin=1;animMech(u,dt);}C.position.set(9,7.5,28);C.lookAt(-1,2.4,48);return;}if(!P)return;const p=P.g.position;P.tYaw=Math.PI+Math.sin(menuA*.8)*.6;P.legYaw=Math.PI;P.spin=P.W.spin?1:0;animMech(P,dt);
  const a=Math.PI*0.75+menuA*0.3;const cx=p.x+Math.sin(a)*9,cz=p.z+Math.cos(a)*9;C.position.set(cx,4.5,cz);
  const lx=-Math.cos(a),lz=Math.sin(a);const side=innerWidth>700?2.8:0;C.lookAt(p.x+lx*side,3,p.z+lz*side);dl.position.set(p.x+SUN.x*60,SUN.y*60,p.z+SUN.z*60);dl.target.position.set(p.x,0,p.z);}
 let gtab='mech',gsel=null,resetArm=false;
@@ -722,7 +779,7 @@ loadMap('arena',7);setGfx(settings.gfx);goMenu();requestAnimationFrame(loop);
 window.__game={THREE_V:THREE.Vector3,hurt,STATS,C,cam,obst,obstMeshes,BASES,CFG,get U(){return U},get E(){return foes('b')},get P(){return P},get B(){return B},get mode(){return mode},get fps(){return fps},get SPEC(){return SPEC},get settings(){return settings},
  ability:()=>ability(P),newGame,goMenu,setGfx,get loadout(){return loadout},setLoadout:(m,w)=>{loadout={mech:m,weapon:w};},
  startMatch:(md,df,mp)=>{settings.mode=md;if(df)settings.diff=df;if(mp)settings.map=mp;newGame();},MAPS,get mapKey(){return mapKey},loadMap,setBaseProg:(t,v)=>{BASES[t].prog=v;},
- killTeam:t=>{for(const u of U)if(u.team===t&&u.alive)hurt(u,1e6,null,null);},killUnit:u=>hurt(u,1e6,null,null),get SAVE(){return SAVE},buyUp,buyUnlock,buyPaint,resetProgress,upMech,upWpn,get reward(){return LAST_REWARD},renderMenu,go:s=>{menuStep=s;renderMenu();}};
+ killTeam:t=>{for(const u of U)if(u.team===t&&u.alive)hurt(u,1e6,null,null);},killUnit:u=>hurt(u,1e6,null,null),get SAVE(){return SAVE},buyUp,buyUnlock,buyPaint,resetProgress,upMech,upWpn,get reward(){return LAST_REWARD},lineup:(w)=>{if(P){S.remove(P.g);P=null;}if(LINEUP)LINEUP.forEach(u=>S.remove(u.g));LINEUP=['guardian','strider','mender','phantom'].map((k,i)=>{const u=makeUnit('b',k,w||'minigun',null);u.g.position.set(-10.5+i*7,0,48);u.tYaw=u.legYaw=u.yaw=Math.PI*0.82;initFeet(u);animMech(u,.016);return u;});},renderMenu,go:s=>{menuStep=s;renderMenu();}};
 // barrel convergence: rotate each gun pivot so its +Z points at the aim point
 const _l=new THREE.Vector3();
 function aimGuns(u,pt,dt){const K=CFG.cam;u.top.updateMatrixWorld(true);for(const g of u.guns){g.rotation.order='YXZ';

diff --git a/index.html b/index.html
@@ -82,4 +82,4 @@ canvas{display:block}
 <div id="hint">WASD move · mouse aim (click to lock) · LMB/F fire · E/Shift/Space/RMB ability · R reload</div>
 <div id="menu"><div id="mc"></div></div>
 <div id="msg"><div id="mt"></div><div id="mm"></div><small id="ml"></small><div id="mk"></div><div id="coins"></div><button class="mb" id="again">PLAY AGAIN</button><button class="mb alt" id="tomenu">MAIN MENU</button></div>
-<script type="module" src="game.js?v=10"></script></body></html>
+<script type="module" src="game.js?v=11"></script></body></html>
